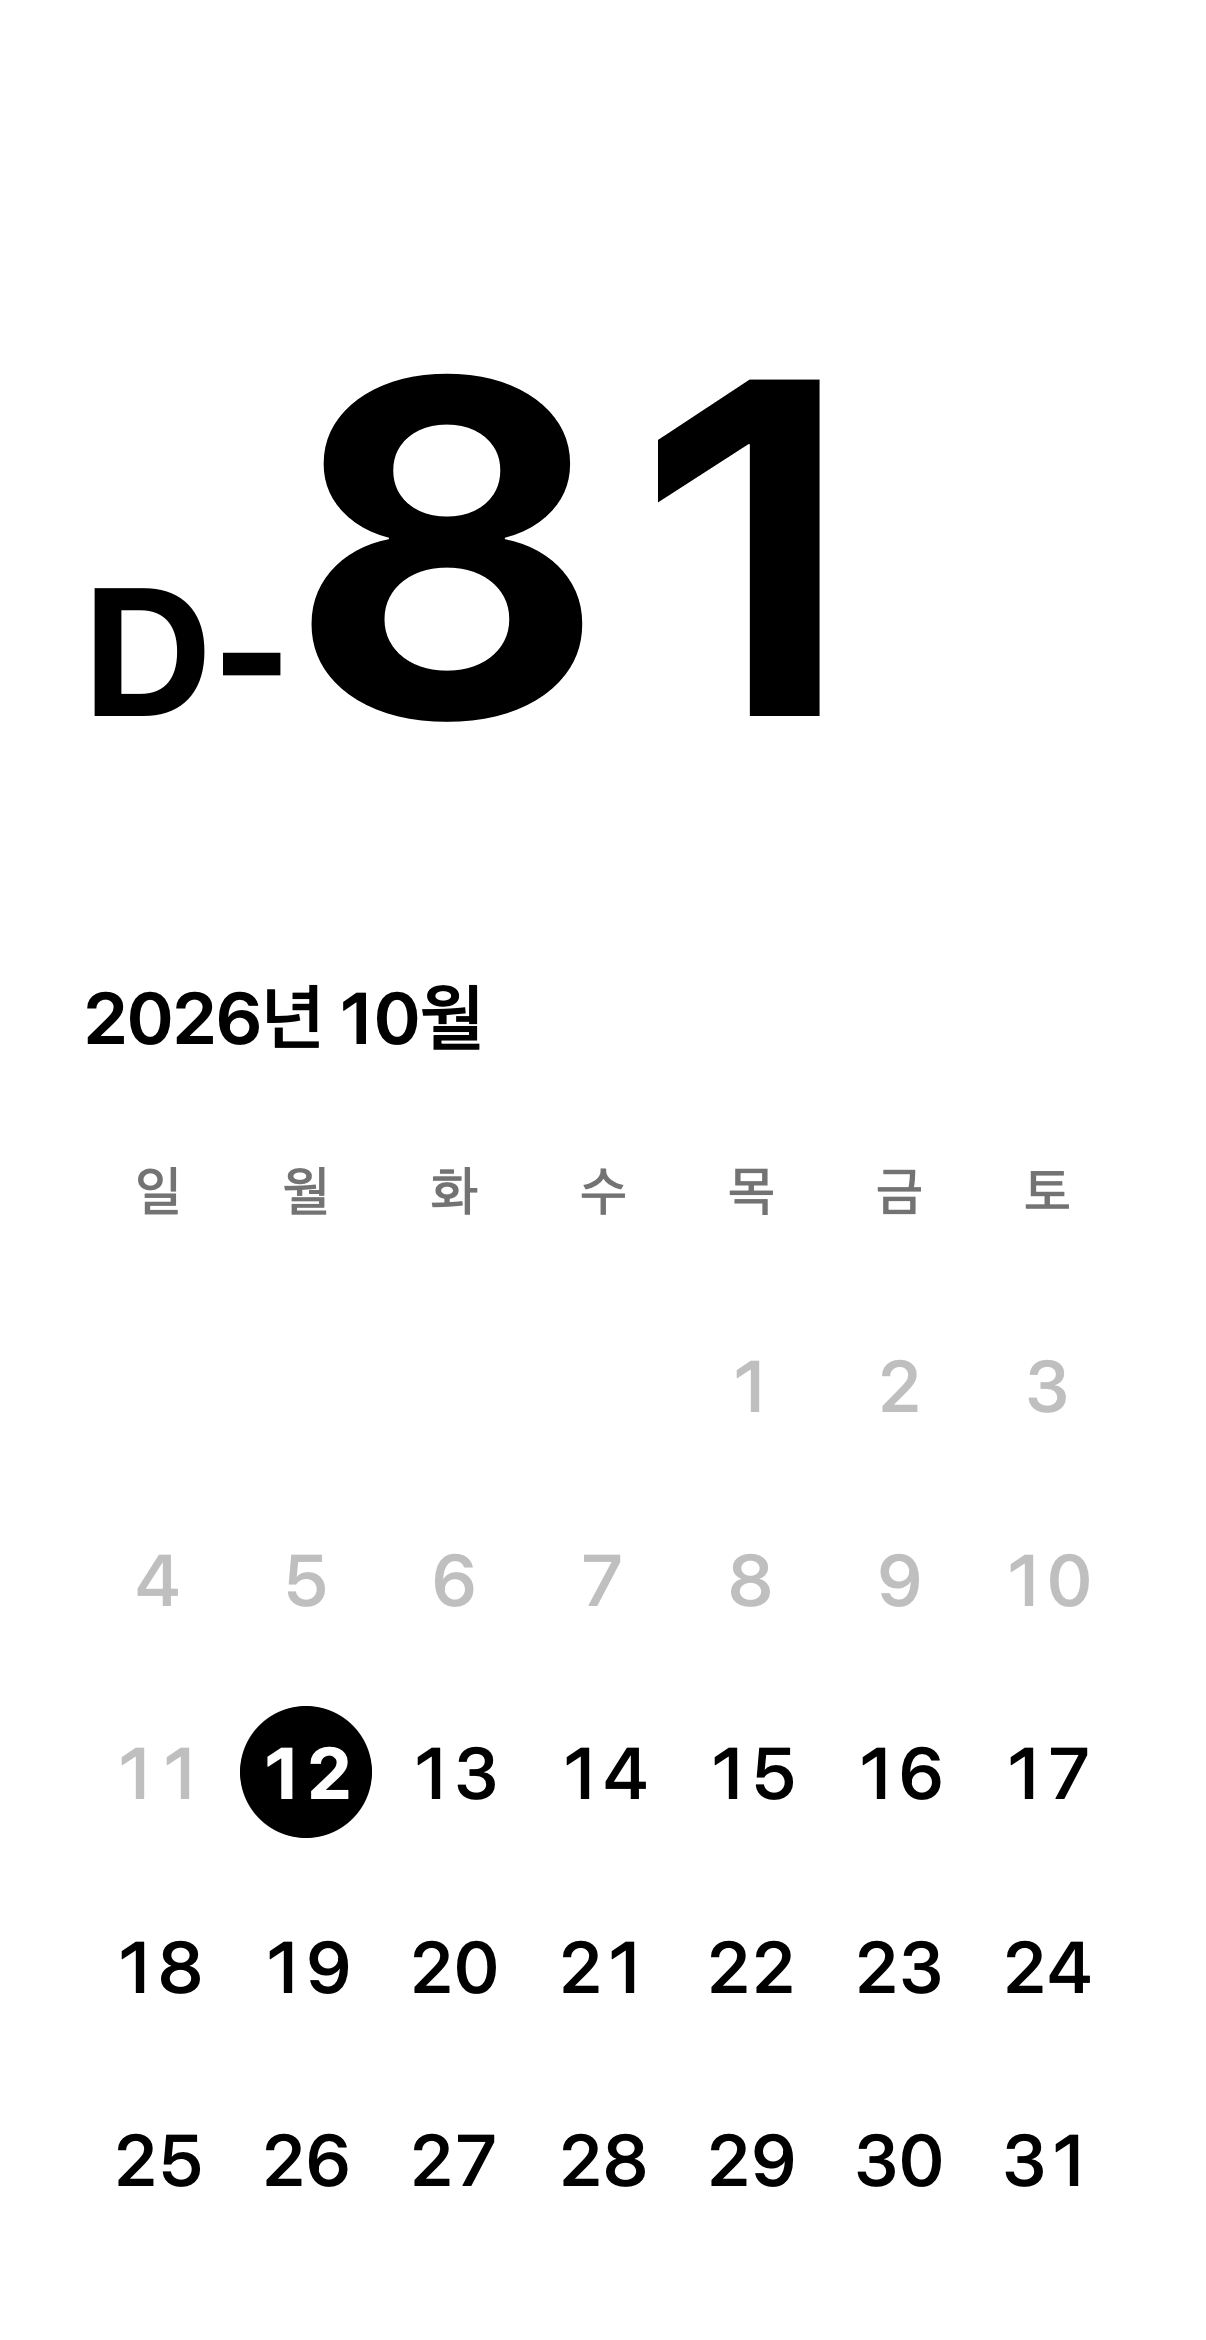
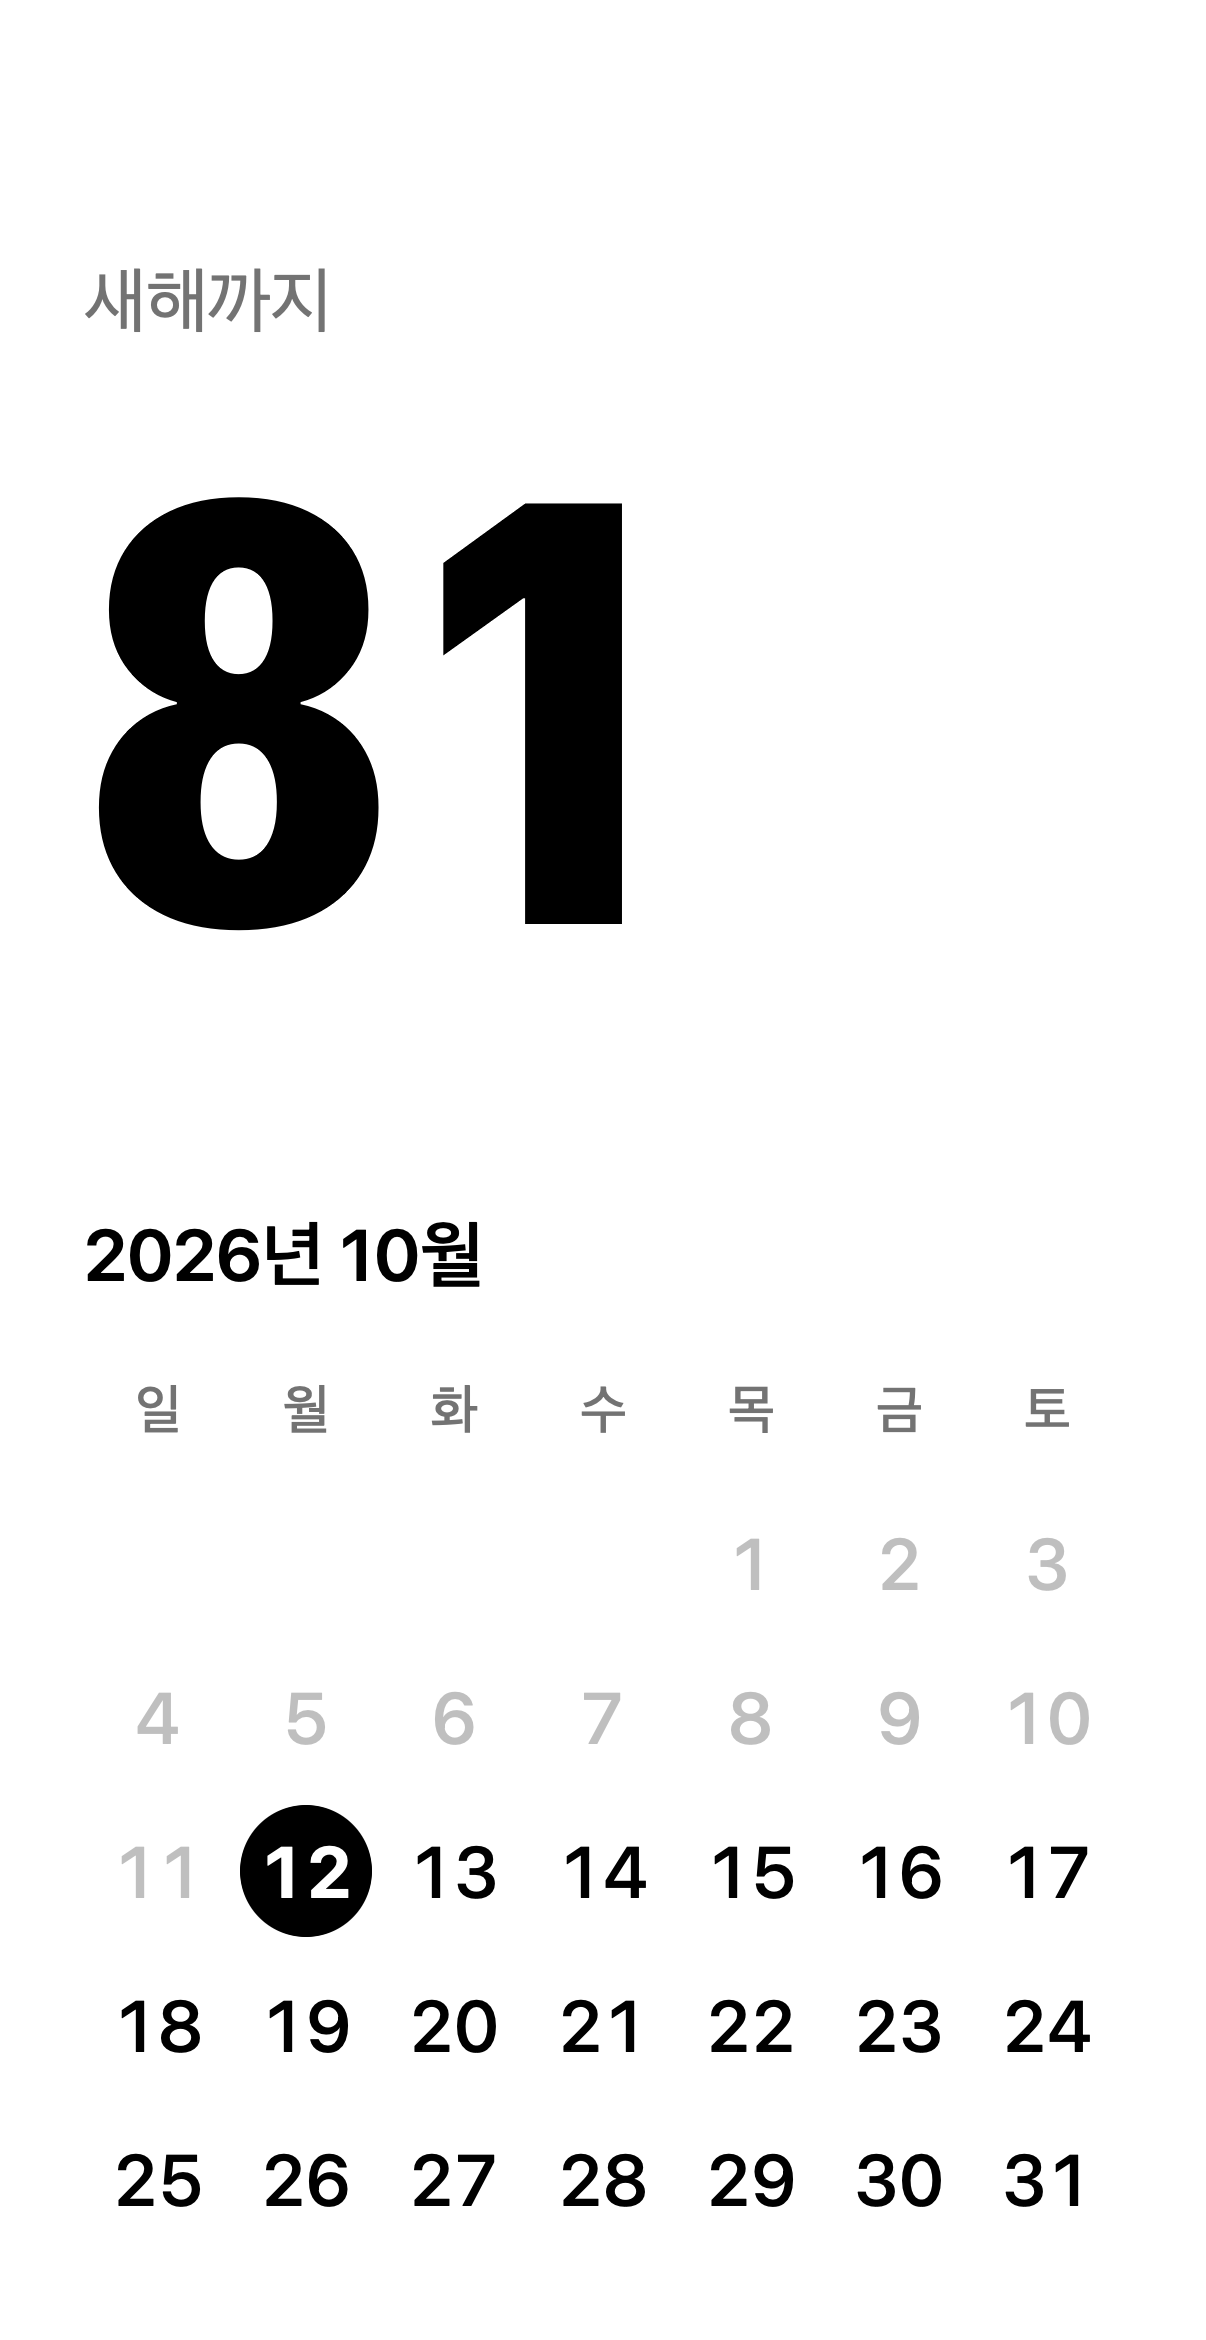
Use larger condensed extra-bold countdown with gray New Year label

diff --git a/Shared/CountdownView.swift b/Shared/CountdownView.swift
@@ -10,7 +10,7 @@ struct CountdownView: View {
             if large {
                 VStack(spacing: 12) {
                     number(size: min(geometry.size.height * 0.34, expanded ? geometry.size.width * 0.46 : 112))
-                        .frame(maxWidth: .infinity, maxHeight: geometry.size.height * 0.38, alignment: .leading)
+                        .frame(maxWidth: .infinity, maxHeight: geometry.size.height * (expanded ? 0.5 : 0.46), alignment: .leading)
                     monthCalendar
                 }
             } else {
@@ -27,13 +27,20 @@ struct CountdownView: View {
     }
 
     private func number(size: CGFloat) -> some View {
-        (Text("D-").font(.system(size: size * 0.38, weight: .bold, design: .default))
-        + Text(model.daysRemaining.formatted(.number.grouping(.never)))
-            .font(.system(size: size, weight: .bold, design: .default)))
-            .monospacedDigit()
-            .lineLimit(1)
-            .minimumScaleFactor(0.45)
-            .accessibilityLabel("2027년 1월 1일까지 \(model.daysRemaining)일 남음")
+        let scaledSize = size * 1.25
+        return VStack(alignment: .leading, spacing: 2) {
+            Text("새해까지")
+                .font(.system(size: max(12, min(scaledSize * 0.14, 24)), weight: .regular, design: .default))
+                .foregroundStyle(Color(white: 0.45))
+                .lineLimit(1)
+            Text(model.daysRemaining.formatted(.number.grouping(.never)))
+                .font(.system(size: scaledSize, weight: .heavy, design: .default).width(.condensed))
+                .monospacedDigit()
+                .lineLimit(1)
+                .minimumScaleFactor(0.45)
+        }
+        .accessibilityElement(children: .ignore)
+        .accessibilityLabel("2027년 1월 1일까지 \(model.daysRemaining)일 남음")
     }
 
     private var monthCalendar: some View {
@@ -70,11 +77,14 @@ struct CountdownView: View {
         if let day {
             let isToday = day == model.todayNumber
             let isPast = day < model.todayNumber
+            let preferredFont: CGFloat = expanded ? 24 : (large ? 15 : 10)
+            let diameter = min(height - 1, expanded ? 44 : (large ? 30 : 20))
+            let fontSize = isToday ? min(preferredFont, diameter * 0.58) : preferredFont
             Text("\(day)")
-                .font(.system(size: expanded ? 24 : (large ? 15 : 10), weight: isToday ? .bold : .medium))
+                .font(.system(size: fontSize, weight: isToday ? .bold : .medium))
                 .monospacedDigit()
                 .foregroundStyle(isToday ? Color.white : (isPast ? Color(white: 0.75) : Color.black))
-                .frame(width: min(height - 1, expanded ? 44 : (large ? 30 : 20)), height: min(height - 1, expanded ? 44 : (large ? 30 : 20)))
+                .frame(width: diameter, height: diameter)
                 .background { if isToday { Circle().fill(Color.black) } }
                 .accessibilityLabel("\(day)일\(isToday ? ", 오늘" : (isPast ? ", 지난 날짜" : ""))")
         } else {

diff --git a/Widget/WidgetPreviews.swift b/Widget/WidgetPreviews.swift
@@ -18,4 +18,3 @@ private let previewDate: Date = {
 } timeline: {
     CountdownEntry(date: previewDate)
 }
-

diff --git a/README.md b/README.md
@@ -3,7 +3,7 @@
 2027년 1월 1일까지 남은 날짜와 이번 달 달력을 보여주는 iPhone 홈 화면 위젯.
 
 - 흰색 배경에 검정·회색만 사용
-- 남은 날짜는 `D-81` 형식으로 표시하고 `D-`는 작게, 숫자는 큰 볼드로 표시
+- 회색 일반 산세리프의 `새해까지` 문구와 큰 Condensed Extra Bold 숫자 표시 (숫자 크기 125%)
 - 지난 날짜는 흐린 회색, 오늘은 검정 원으로 강조
 - 기본 산세리프 서체 및 왼쪽 정렬
 - 중형(2단계)·대형(3단계)·iOS 27 초대형 세로(4단계) 위젯 지원
